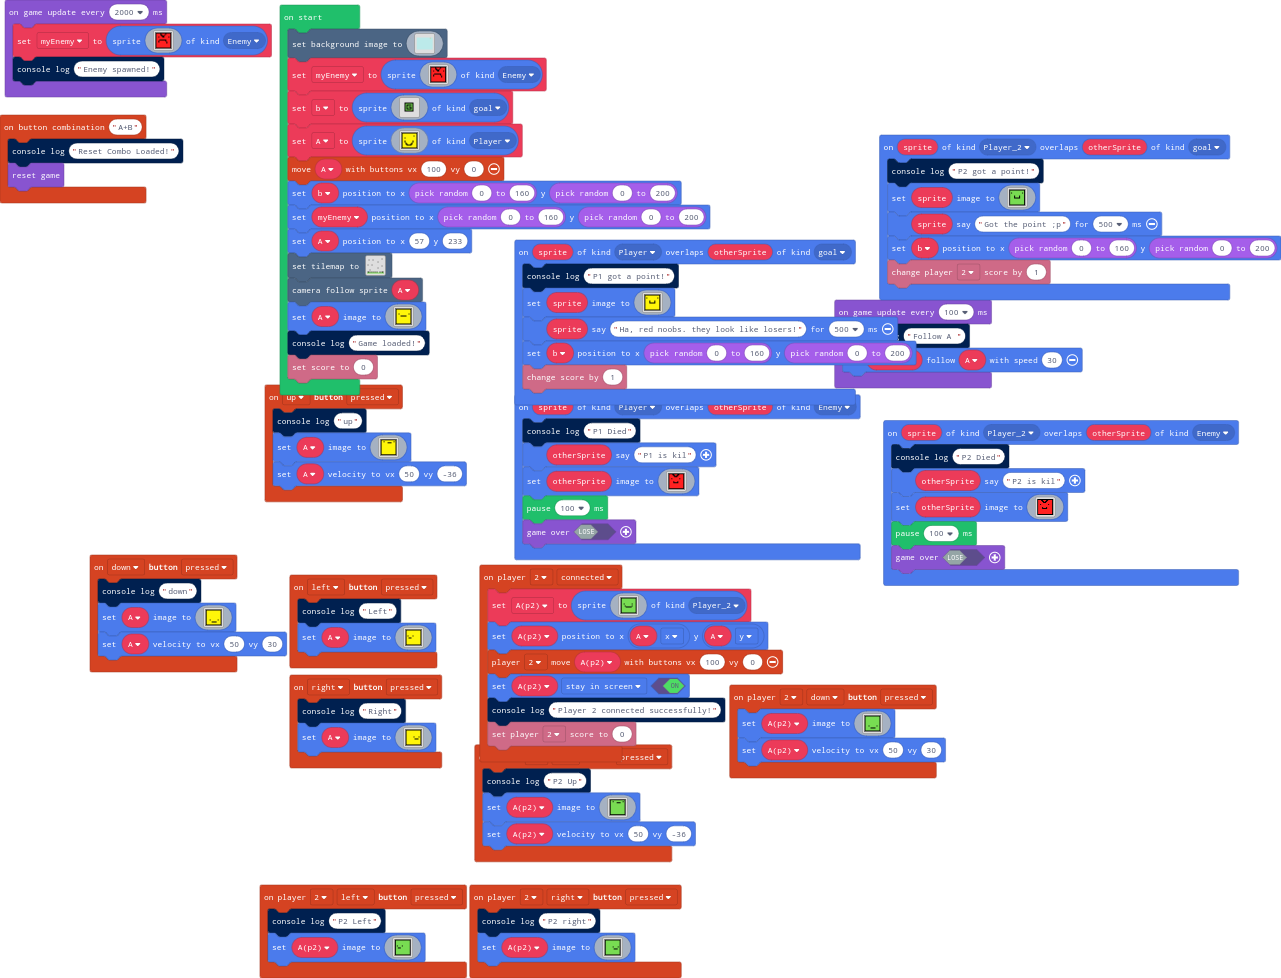
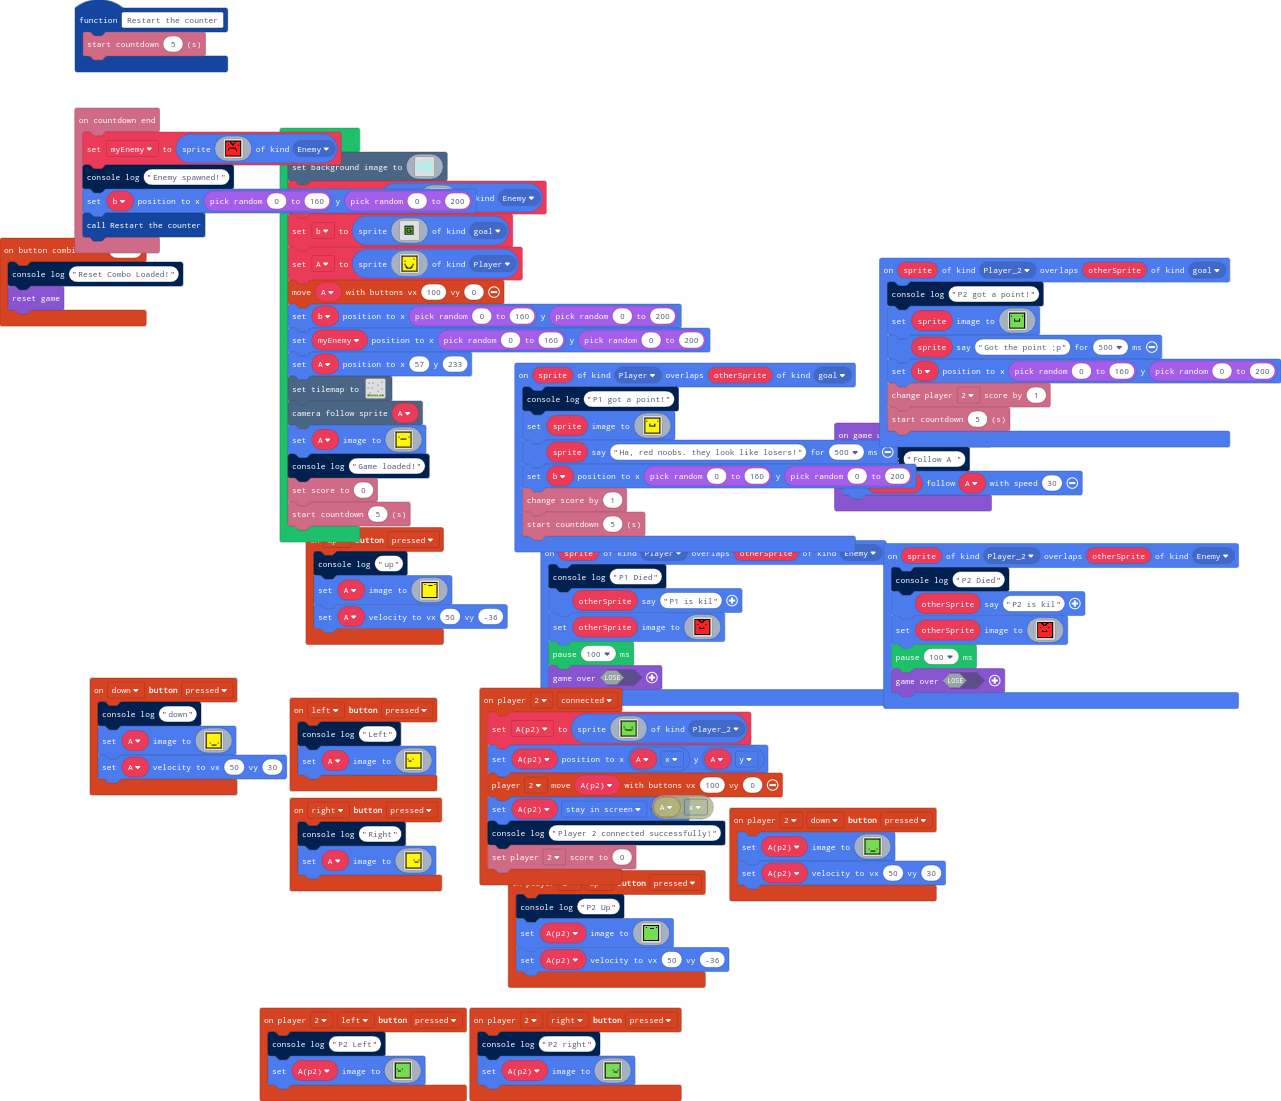
fixed

diff --git a/main.ts b/main.ts
@@ -119,6 +119,9 @@ f f 7 7 7 7 7 7 7 7 7 2 7 7 7 7
 . . . . f e e e f . . . . . . . 
 `
 }
+function Restart_the_counter () {
+    info.startCountdown(5)
+}
 controller.left.onEvent(ControllerButtonEvent.Pressed, function () {
     console.log("Left")
     A.setImage(img`
@@ -259,6 +262,7 @@ f f f f f f f f f f f f f f f f
     sprite.say("Got the point ;p", 500)
     b.setPosition(Math.randomRange(0, 160), Math.randomRange(0, 200))
     info.player2.changeScoreBy(1)
+    info.startCountdown(5)
 })
 controller.player2.onButtonEvent(ControllerButton.Left, ControllerButtonEvent.Pressed, function () {
     console.log("P2 Left")
@@ -348,6 +352,29 @@ f 5 5 5 5 5 5 5 5 5 5 5 5 5 5 f
 f f f f f f f f f f f f f f f f 
 `)
 })
+info.onCountdownEnd(function () {
+    myEnemy = sprites.create(img`
+f f f f f f f f f f f f f f f f 
+f 2 2 2 2 f 2 2 2 2 f 2 2 2 2 f 
+f 2 2 2 2 f f 2 2 f 2 2 2 2 2 f 
+f 2 2 2 2 2 f f f 2 2 2 2 2 2 f 
+f 2 2 f 2 2 2 f f 2 2 2 2 f 2 f 
+f 2 2 2 2 2 2 2 2 2 2 2 2 2 2 f 
+f 2 2 2 2 2 2 2 2 2 2 2 2 2 2 f 
+f 2 2 2 f f f f f f f 2 2 2 2 f 
+f 2 2 f 2 2 2 2 2 2 f 2 2 2 2 f 
+f 2 2 f 2 2 2 2 2 2 2 f 2 2 2 f 
+f 2 2 2 2 2 2 2 2 2 2 f 2 2 2 f 
+f 2 2 2 2 2 2 2 2 2 2 2 2 2 2 f 
+f 2 2 2 2 2 2 2 2 2 2 2 2 2 2 f 
+f 2 2 2 2 2 2 2 2 2 2 2 2 2 2 f 
+f 2 2 2 2 2 2 2 2 2 2 2 2 2 2 f 
+f f f f f f f f f f f f f f f f 
+`, SpriteKind.Enemy)
+    console.log("Enemy spawned!")
+    b.setPosition(Math.randomRange(0, 160), Math.randomRange(0, 200))
+    Restart_the_counter()
+})
 controller.player2.onButtonEvent(ControllerButton.Right, ControllerButtonEvent.Pressed, function () {
     console.log("P2 right")
     Ap2.setImage(img`
@@ -414,10 +441,12 @@ f f f f f f f f f f f f f f f f
     sprite.say("Ha, red noobs. they look like losers!", 500)
     b.setPosition(Math.randomRange(0, 160), Math.randomRange(0, 200))
     info.changeScoreBy(1)
+    info.startCountdown(5)
 })
 let Ap2: Sprite = null
 let A: Sprite = null
 let b: Sprite = null
+let myEnemy: Sprite = null
 scene.setBackgroundImage(img`
 9 9 9 9 9 9 9 9 9 9 9 9 9 9 9 9 9 9 9 9 9 9 9 9 9 9 9 9 9 9 9 9 9 9 9 9 9 9 9 9 9 9 9 9 9 9 9 9 9 9 9 9 9 9 9 9 9 9 9 9 9 9 9 9 9 9 9 9 9 9 9 9 9 9 9 9 9 9 9 9 9 9 9 9 9 9 9 9 9 9 9 9 9 9 9 9 9 9 9 9 9 9 9 9 9 9 9 9 9 9 9 9 9 9 9 9 9 9 9 9 9 9 9 9 9 9 9 9 9 9 9 9 9 9 9 9 9 9 9 9 9 9 9 9 9 9 9 9 9 9 9 9 9 9 9 9 9 9 9 9 
 9 9 9 9 9 9 9 9 9 9 9 9 9 9 9 9 9 9 9 9 9 9 9 9 9 9 9 9 9 9 9 9 9 9 9 9 9 9 9 9 9 9 9 9 9 9 9 9 9 9 9 9 9 9 9 9 9 9 9 9 9 9 9 9 9 9 9 9 9 9 9 9 9 9 9 9 9 9 9 9 9 9 9 9 9 9 9 9 9 9 9 9 9 9 9 9 9 9 9 9 9 9 9 9 9 9 9 9 9 9 9 9 9 9 9 9 9 9 9 9 9 9 9 9 9 9 9 9 9 9 9 9 9 9 9 9 9 9 9 9 9 9 9 9 9 9 9 9 9 9 9 9 9 9 9 9 9 9 9 9 
@@ -540,7 +569,7 @@ scene.setBackgroundImage(img`
 9 9 9 9 9 9 9 9 9 9 9 9 9 9 9 9 9 9 9 9 9 9 9 9 9 9 9 9 9 9 9 9 9 9 9 9 9 9 9 9 9 9 9 9 9 9 9 9 9 9 9 9 9 9 9 9 9 9 9 9 9 9 9 9 9 9 9 9 9 9 9 9 9 9 9 9 9 9 9 9 9 9 9 9 9 9 9 9 9 9 9 9 9 9 9 9 9 9 9 9 9 9 9 9 9 9 9 9 9 9 9 9 9 9 9 9 9 9 9 9 9 9 9 9 9 9 9 9 9 9 9 9 9 9 9 9 9 9 9 9 9 9 9 9 9 9 9 9 9 9 9 9 9 9 9 9 9 9 9 9 
 9 9 9 9 9 9 9 9 9 9 9 9 9 9 9 9 9 9 9 9 9 9 9 9 9 9 9 9 9 9 9 9 9 9 9 9 9 9 9 9 9 9 9 9 9 9 9 9 9 9 9 9 9 9 9 9 9 9 9 9 9 9 9 9 9 9 9 9 9 9 9 9 9 9 9 9 9 9 9 9 9 9 9 9 9 9 9 9 9 9 9 9 9 9 9 9 9 9 9 9 9 9 9 9 9 9 9 9 9 9 9 9 9 9 9 9 9 9 9 9 9 9 9 9 9 9 9 9 9 9 9 9 9 9 9 9 9 9 9 9 9 9 9 9 9 9 9 9 9 9 9 9 9 9 9 9 9 9 9 9 
 `)
-let myEnemy = sprites.create(img`
+myEnemy = sprites.create(img`
 f f f f f f f f f f f f f f f f 
 f 2 2 2 2 f 2 2 2 2 f 2 2 2 2 f 
 f 2 2 2 2 f f 2 2 f 2 2 2 2 2 f 
@@ -642,28 +671,8 @@ f f f f f f f f f f f f f f f f
 `)
 console.log("Game loaded!")
 info.setScore(0)
+info.startCountdown(5)
 game.onUpdateInterval(100, function () {
     console.log("Follow A ")
     myEnemy.follow(A, 30)
-})
-game.onUpdateInterval(2000, function () {
-    myEnemy = sprites.create(img`
-f f f f f f f f f f f f f f f f 
-f 2 2 2 2 f 2 2 2 2 f 2 2 2 2 f 
-f 2 2 2 2 f f 2 2 f 2 2 2 2 2 f 
-f 2 2 2 2 2 f f f 2 2 2 2 2 2 f 
-f 2 2 f 2 2 2 f f 2 2 2 2 f 2 f 
-f 2 2 2 2 2 2 2 2 2 2 2 2 2 2 f 
-f 2 2 2 2 2 2 2 2 2 2 2 2 2 2 f 
-f 2 2 2 f f f f f f f 2 2 2 2 f 
-f 2 2 f 2 2 2 2 2 2 f 2 2 2 2 f 
-f 2 2 f 2 2 2 2 2 2 2 f 2 2 2 f 
-f 2 2 2 2 2 2 2 2 2 2 f 2 2 2 f 
-f 2 2 2 2 2 2 2 2 2 2 2 2 2 2 f 
-f 2 2 2 2 2 2 2 2 2 2 2 2 2 2 f 
-f 2 2 2 2 2 2 2 2 2 2 2 2 2 2 f 
-f 2 2 2 2 2 2 2 2 2 2 2 2 2 2 f 
-f f f f f f f f f f f f f f f f 
-`, SpriteKind.Enemy)
-    console.log("Enemy spawned!")
 })
